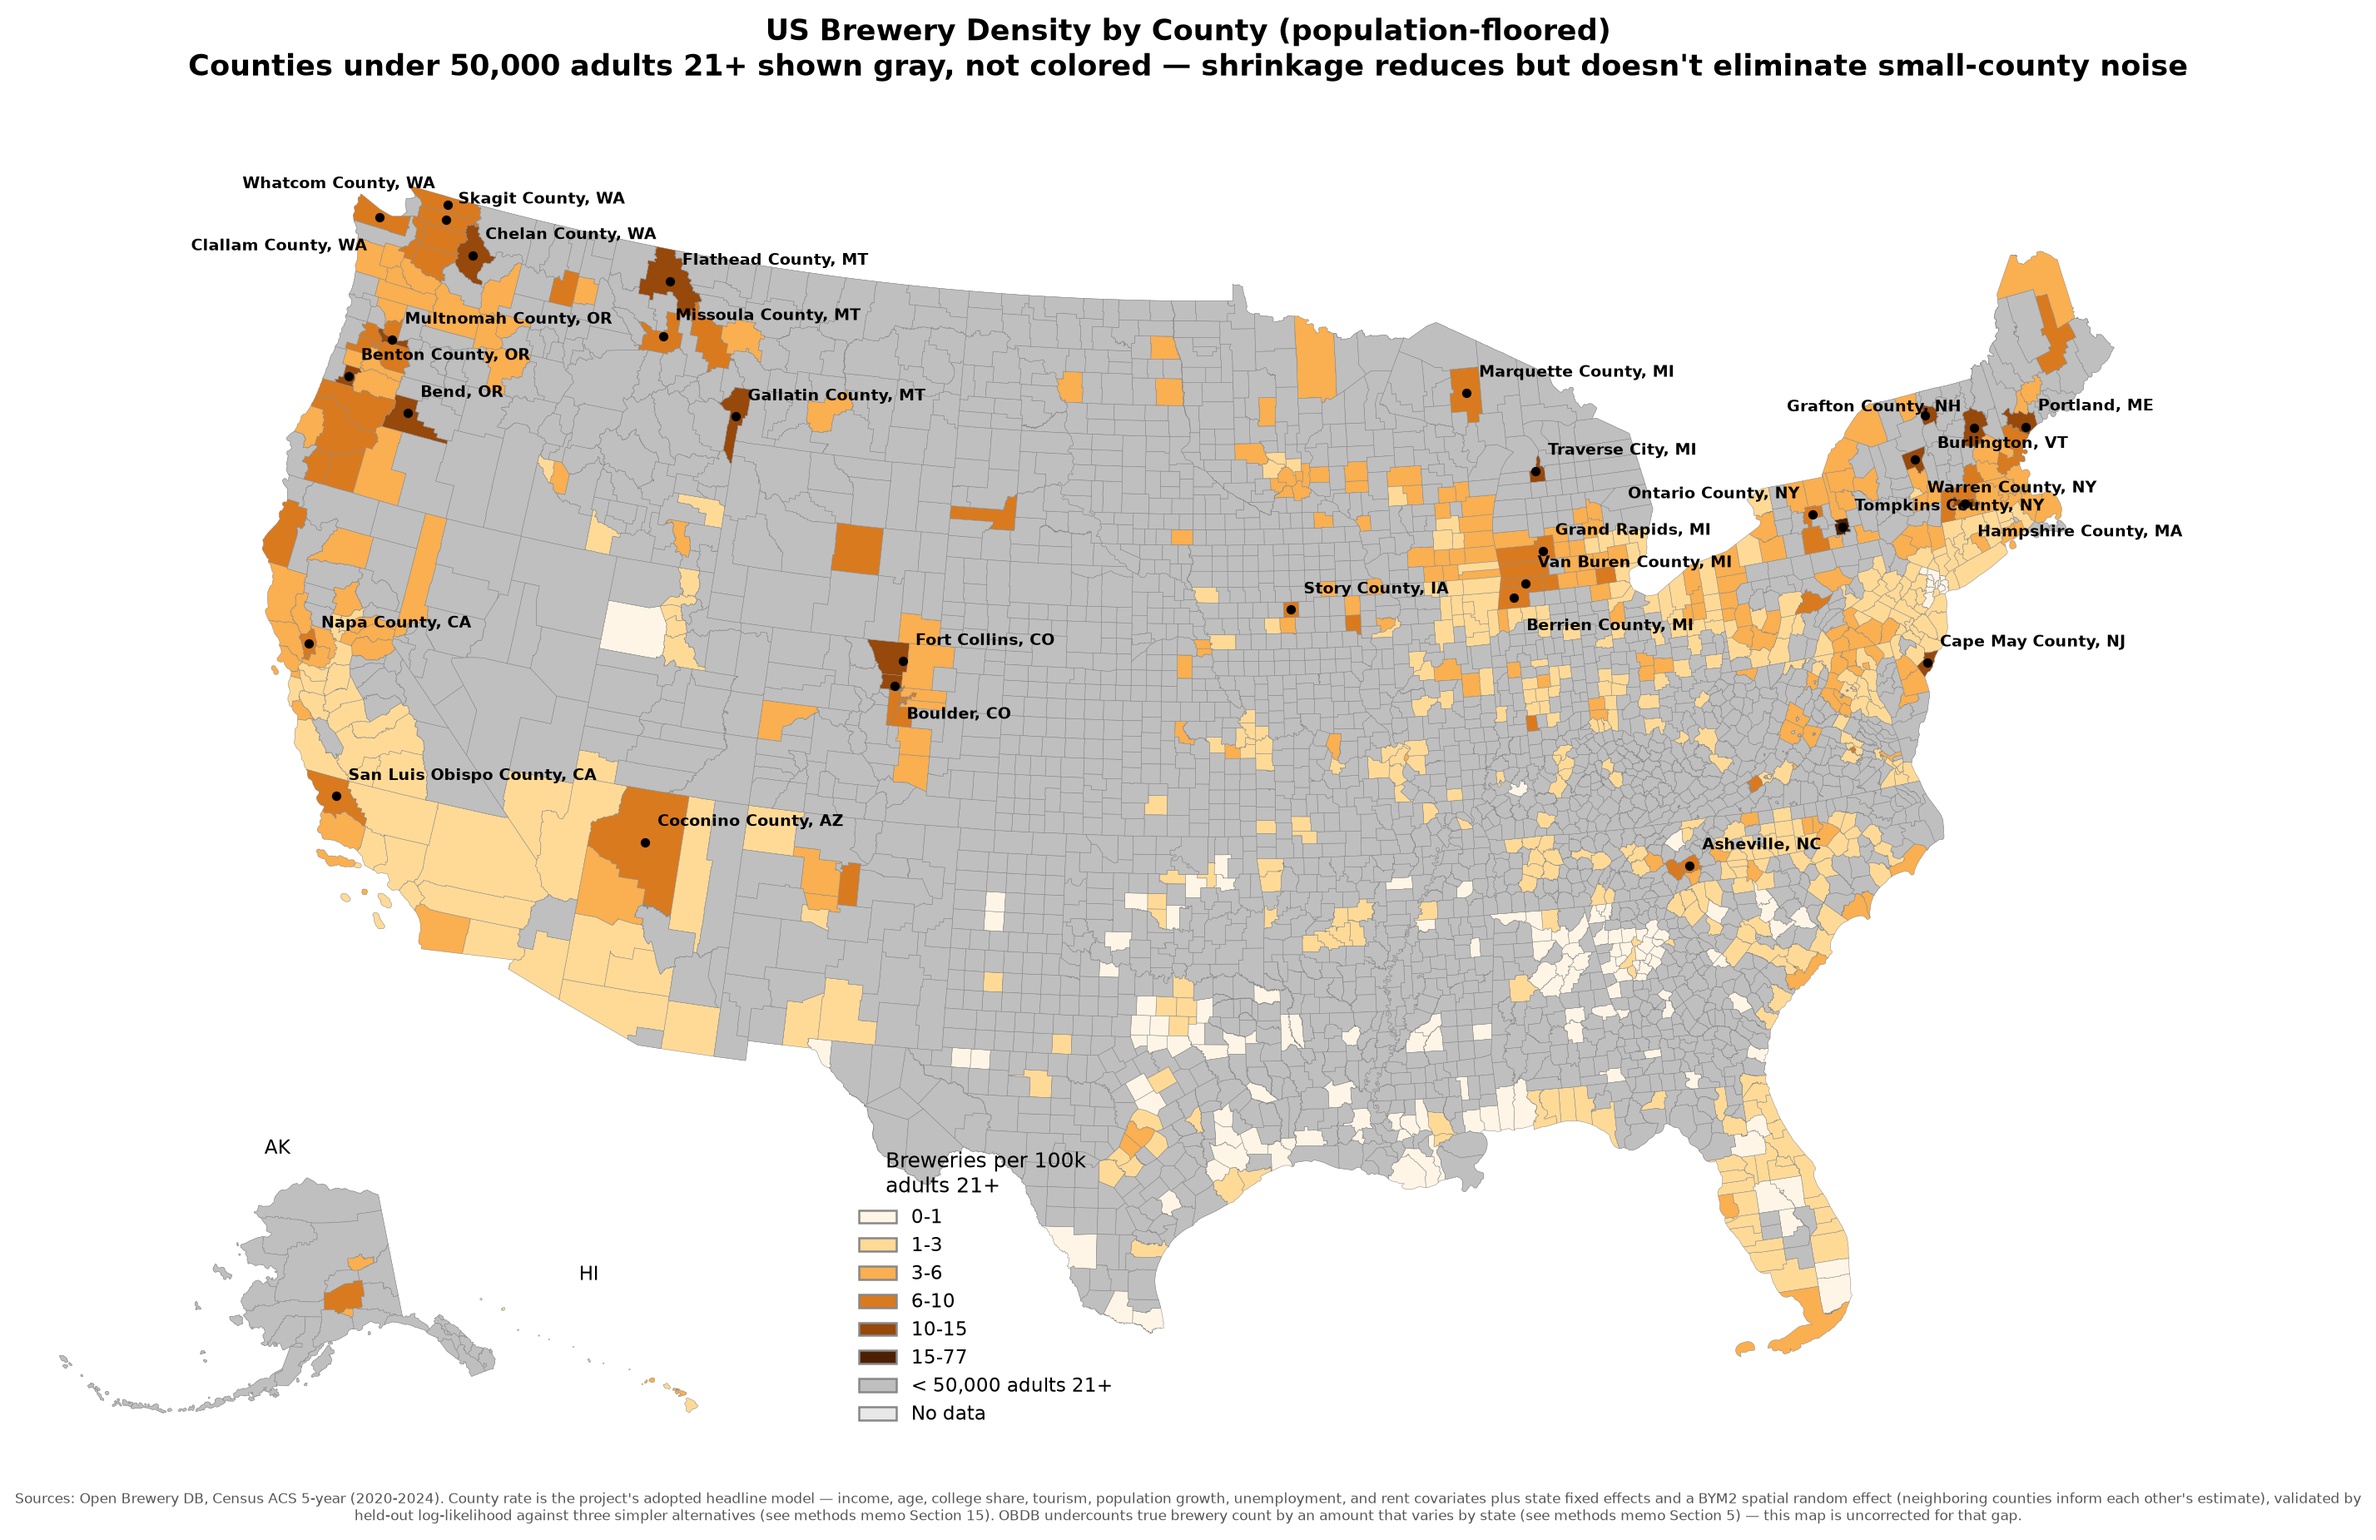
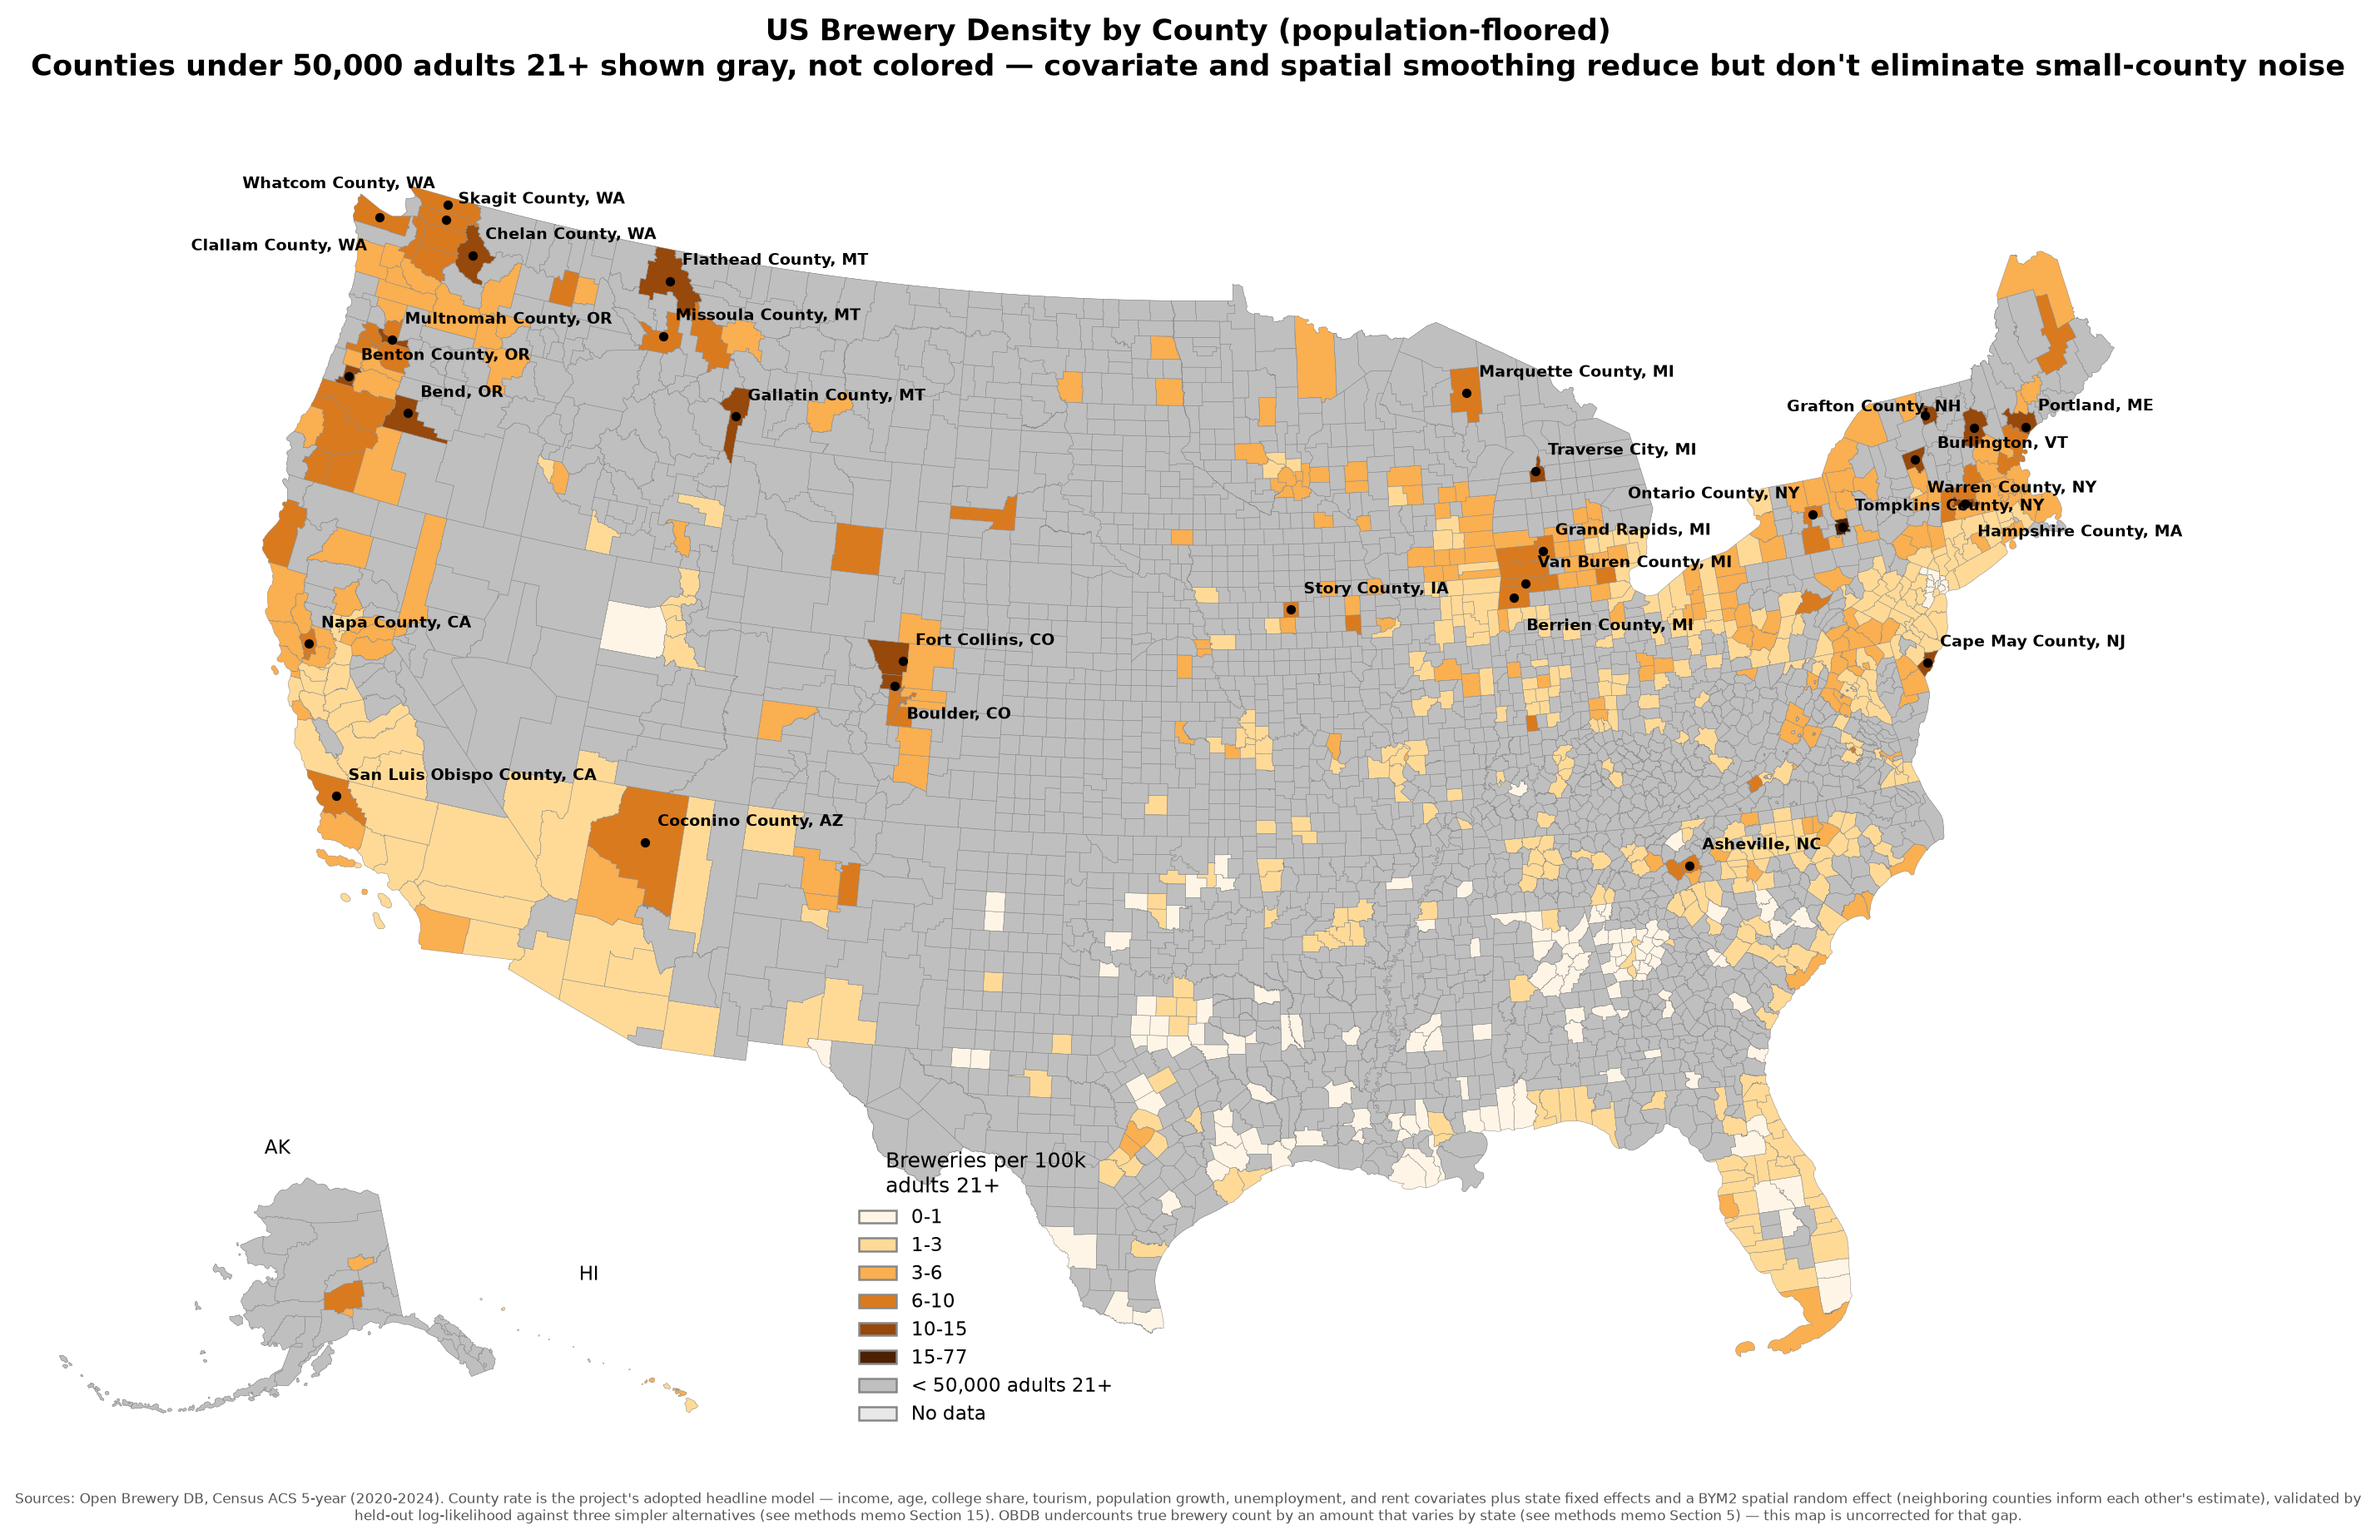
Fix stale "shrinkage" caption on the population-floored choropleth
The floor-specific subtitle branch in build_map() wasn't updated when
the choropleth was repointed to the adopted covariate+spatial model --
it still described the noise-damping mechanism as empirical-Bayes
shrinkage, which is what Model A does, not what the adopted model does.
Caught by a user question comparing the plot against the stated
methodology. Fixed the caption text and regenerated both choropleth
variants; docs/images/choropleth.png (embedded in README.md) updated
to match.

Claude-Session: https://claude.ai/code/session_01DeE7KfDYZEQndpccQJi4Q1

Changed region(s): [[0.0, 0.0308, 0.9975, 0.0616]]

diff --git a/scripts/build_choropleth.py b/scripts/build_choropleth.py
@@ -156,8 +156,8 @@ def build_map(gdf: gpd.GeoDataFrame, out_path: str, floor: int | None,
                 "per 100,000 adults 21+")
     if floor is not None:
         title += " (population-floored)"
-        subtitle = (f"Counties under {floor:,} adults 21+ shown gray, not colored — shrinkage "
-                    "reduces but doesn't eliminate small-county noise")
+        subtitle = (f"Counties under {floor:,} adults 21+ shown gray, not colored — covariate "
+                    "and spatial smoothing reduce but don't eliminate small-county noise")
     ax.set_title(f"{title}\n{subtitle}", fontsize=14, fontweight="bold", pad=14)
 
     ax_ak = fig.add_axes((0.02, 0.05, 0.20, 0.22))
